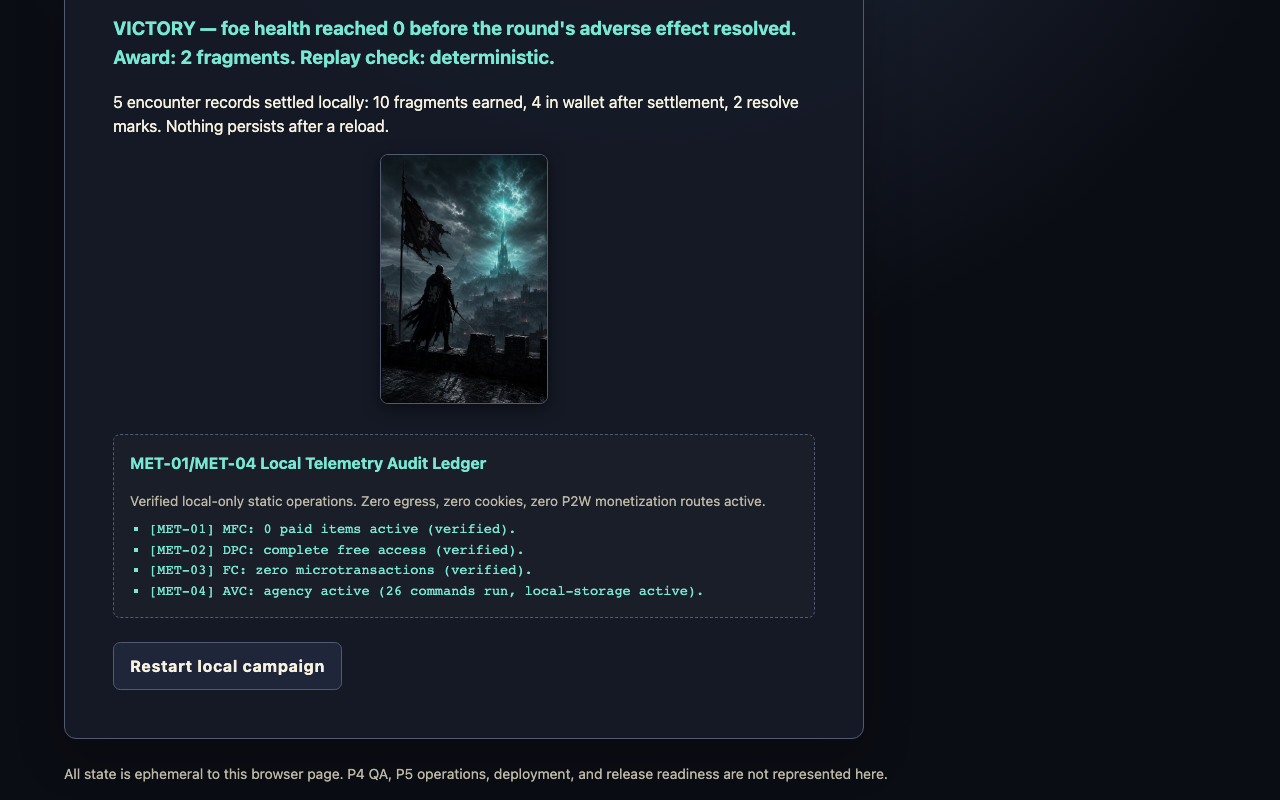
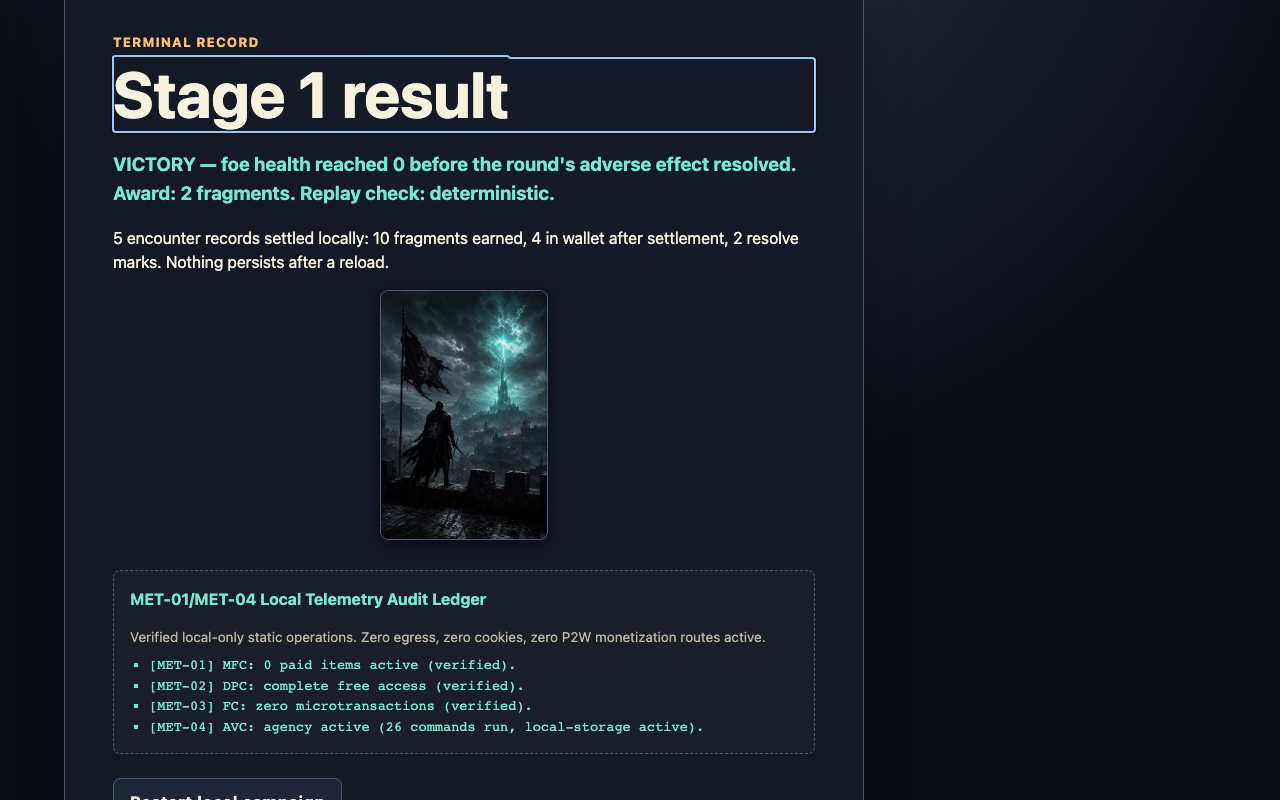
feat: implement active RTS Tactical Monitor panel and styled unit badges

Changed region(s): [[0.0625, 0.0, 0.6875, 1.0]]

diff --git a/app.js b/app.js
@@ -1002,6 +1002,53 @@ function render() {
       dom.voidAvatar.classList.remove("strike-vibe");
     }
   }
+  // Update RTS Monitor Panel
+  const monitorActiveCount = document.querySelector("#monitor-active-count");
+  const monitorListContainer = document.querySelector("#monitor-list-container");
+  const monitorPlaceholder = document.querySelector("#monitor-placeholder");
+
+  if (monitorActiveCount && monitorListContainer) {
+    monitorActiveCount.textContent = activeUnits.length;
+    
+    // Clear old elements
+    const items = [...monitorListContainer.querySelectorAll(".monitor-item")];
+    for (const item of items) {
+      if (item.parentNode) item.parentNode.removeChild(item);
+    }
+    
+    if (activeUnits.length === 0) {
+      if (monitorPlaceholder) monitorPlaceholder.style.display = "block";
+    } else {
+      if (monitorPlaceholder) monitorPlaceholder.style.display = "none";
+      
+      for (const unit of activeUnits) {
+        const item = document.createElement("div");
+        item.className = "monitor-item";
+        item.style.display = "flex";
+        item.style.alignItems = "center";
+        item.style.justifyContent = "space-between";
+        item.style.fontSize = "0.85rem";
+        item.style.padding = "0.3rem 0.6rem";
+        item.style.background = "rgba(255,255,255,0.02)";
+        item.style.border = "1px solid rgba(255,255,255,0.05)";
+        item.style.borderRadius = "0.3rem";
+        
+        const badge = unit.type === "STRIKE" ? "⚔️ [STRIKE Soldier]" : "🛡️ [BRACE Shield]";
+        const badgeColor = unit.type === "STRIKE" ? "color: #ef4444;" : "color: #3b82f6;";
+        const eta = ((100 - unit.x) / unit.speed).toFixed(1);
+        
+        item.innerHTML = `
+          <span style="${badgeColor} font-weight: bold; min-width: 140px;">${badge}</span>
+          <div style="flex: 1; margin: 0 1rem; position: relative; height: 6px; background: rgba(255,255,255,0.05); border-radius: 3px; overflow: hidden;">
+            <div style="position: absolute; left: 0; top: 0; bottom: 0; width: ${unit.x}%; background: ${unit.type === "STRIKE" ? "#ef4444" : "#3b82f6"};"></div>
+          </div>
+          <span style="color: var(--muted); min-width: 90px; text-align: right;">Progress: ${unit.x.toFixed(1)}% (ETA: ${eta}s)</span>
+        `;
+        monitorListContainer.appendChild(item);
+      }
+    }
+  }
+
   if (typeof window !== "undefined") {
     window.surface = surface;
     window.encounter = encounter;

diff --git a/styles.css b/styles.css
@@ -313,15 +313,34 @@ button:focus-visible, a:focus-visible {
 .spawned-unit {
   position: absolute;
   top: 50%;
-  transform: translateY(-50%);
-  font-size: 1.6rem;
+  transform: translate(-50%, -50%);
+  width: 42px;
+  height: 42px;
+  border-radius: 50%;
+  display: flex;
+  align-items: center;
+  justify-content: center;
+  font-size: 1.4rem;
   pointer-events: none;
-  filter: drop-shadow(0 0 4px rgba(255,255,255,0.4));
+  border: 1px solid var(--line);
+  box-shadow: 0 4px 10px rgba(0,0,0,0.6);
+  animation: walk-wiggle 0.5s infinite alternate ease-in-out;
+  transition: left 0.1s linear;
+}
+@keyframes walk-wiggle {
+  0% { transform: translate(-50%, -55%) rotate(-6deg); }
+  100% { transform: translate(-50%, -45%) rotate(6deg); }
 }
 .unit-soldier {
-  filter: drop-shadow(0 0 6px var(--cinder));
+  background: rgba(239, 68, 68, 0.2);
+  border-color: #ef4444;
+  box-shadow: 0 0 10px rgba(239, 68, 68, 0.4), inset 0 0 8px rgba(239, 68, 68, 0.3);
+  filter: drop-shadow(0 0 4px rgba(239, 68, 68, 0.6));
 }
 .unit-shield {
-  filter: drop-shadow(0 0 6px var(--signal));
+  background: rgba(59, 130, 246, 0.2);
+  border-color: #3b82f6;
+  box-shadow: 0 0 10px rgba(59, 130, 246, 0.4), inset 0 0 8px rgba(59, 130, 246, 0.3);
+  filter: drop-shadow(0 0 4px rgba(59, 130, 246, 0.6));
 }
 

diff --git a/index.html b/index.html
@@ -149,6 +149,17 @@
         <div style="font-size: 2.2rem; filter: drop-shadow(0 0 4px var(--danger));">🌀</div>
       </div>
 
+      <!-- RTS Tactical Telemetry Monitor -->
+      <section id="rts-monitor-panel" class="rts-monitor-panel" aria-labelledby="monitor-title" style="margin-top: 1rem; padding: 1rem; border: 1px solid var(--line); border-radius: 0.75rem; background: rgba(11, 13, 20, 0.6); box-shadow: inset 0 0 10px rgba(0,0,0,0.8);">
+        <h3 id="monitor-title" style="margin: 0 0 0.8rem 0; font-size: 0.95rem; text-transform: uppercase; color: var(--signal); letter-spacing: 0.05em; display: flex; align-items: center; justify-content: space-between;">
+          <span>RTS Tactical Monitor</span>
+          <span style="font-size: 0.8rem; color: var(--muted); font-weight: normal;">Active signals: <strong id="monitor-active-count" style="color: var(--signal);">0</strong></span>
+        </h3>
+        <div id="monitor-list-container" style="display: flex; flex-direction: column; gap: 0.5rem; max-height: 120px; overflow-y: auto;">
+          <p id="monitor-placeholder" style="margin: 0; color: var(--muted); font-size: 0.85rem; font-style: italic; text-align: center; padding: 0.5rem 0;">STANDBY - NO ACTIVE SIGNALS</p>
+        </div>
+      </section>
+
       <section class="command-panel" aria-labelledby="commands-title">
         <h2 id="commands-title">Semantic commands</h2>
         <p id="command-help">Pointer/touch clicks and keyboard shortcuts record the same versioned command before the deterministic reducer resolves it. Unavailable commands are disabled rather than substituted.</p>